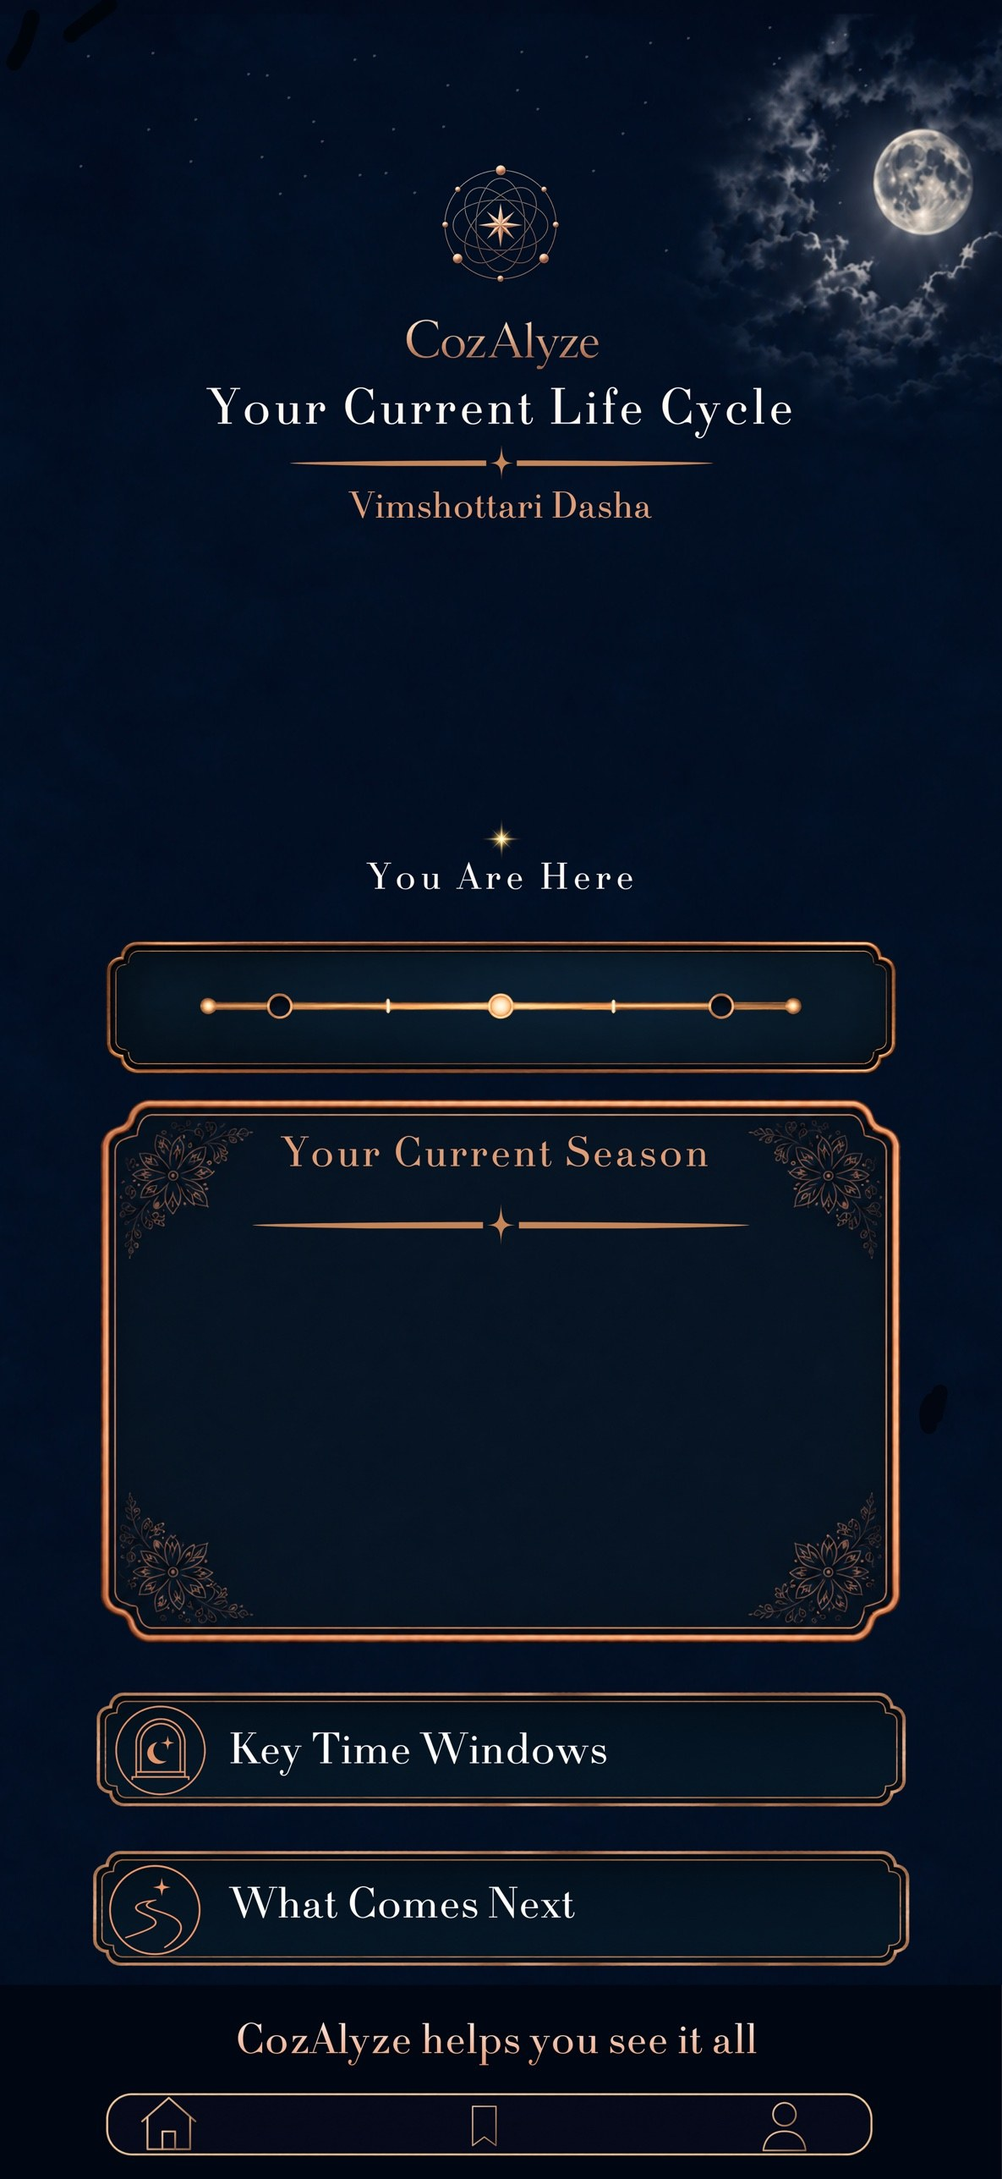
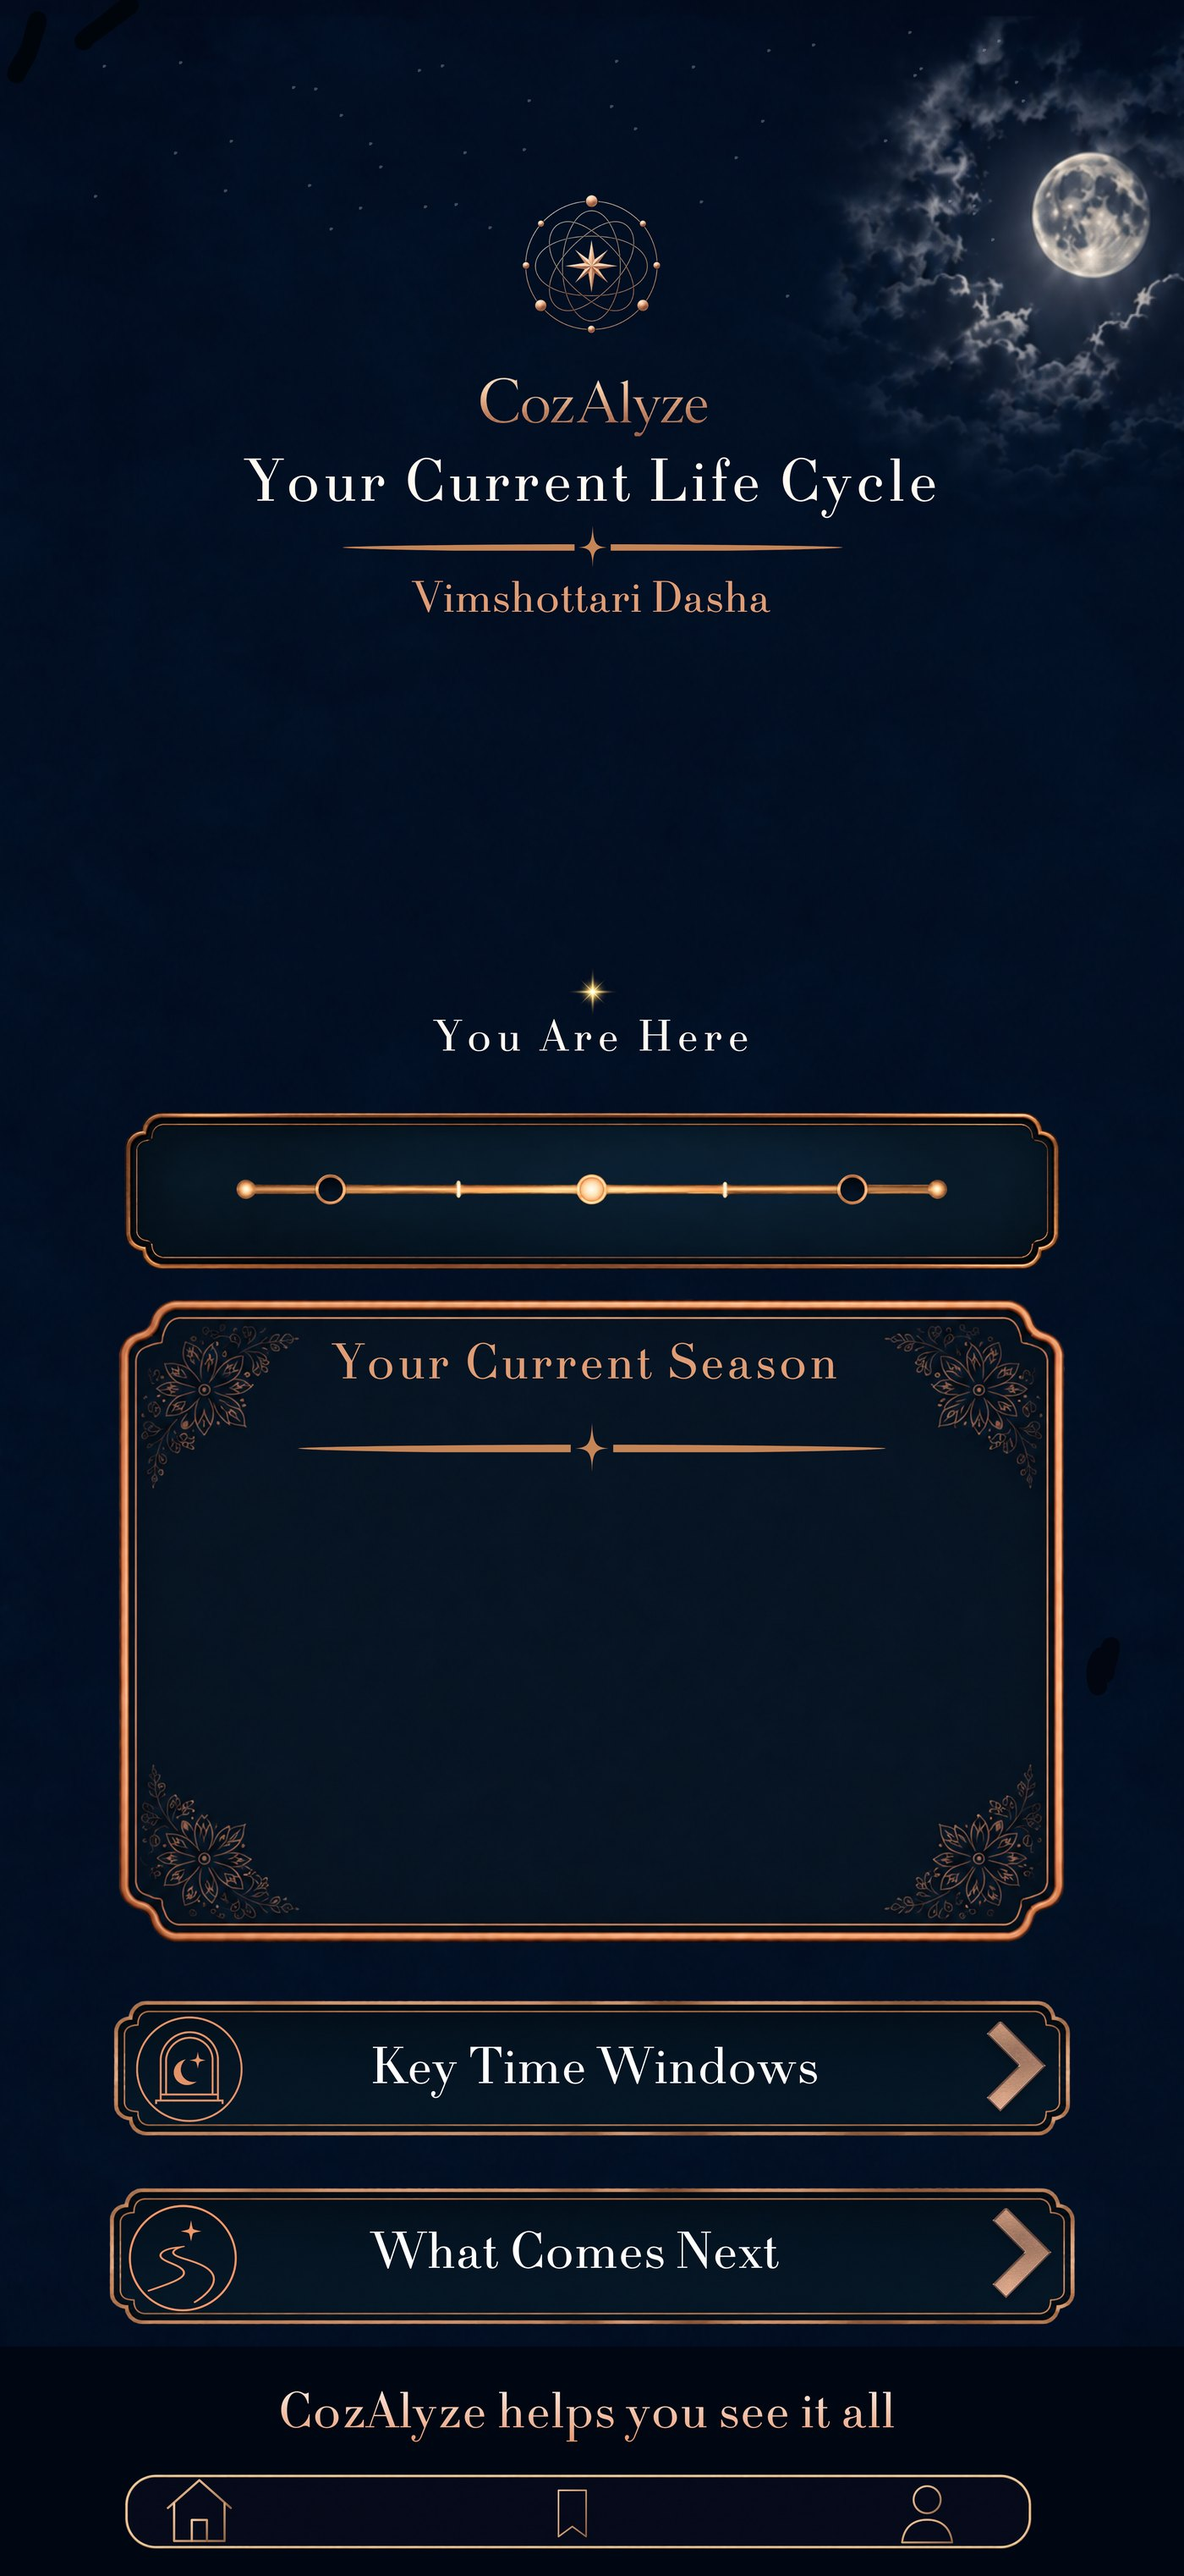
Add files via upload

diff --git a/current-life-cycle.html b/current-life-cycle.html
@@ -5,7 +5,7 @@
 <meta name="viewport" content="width=device-width, initial-scale=1, viewport-fit=cover">
 <title>Your Current Life Cycle · CozAlyze</title>
 <!--
-  COZALYZE · CURRENT LIFE CYCLE · LC2.2
+  COZALYZE · CURRENT LIFE CYCLE · LC2.3
   Reached from vedic-reading.html (the "Your Current Life Cycle" door).
 
   LC2.0 replaces the CSS-composed layout of LC1.0. The artwork is now a single
@@ -112,15 +112,23 @@ html, body {
   font-size: 7.3cqw; letter-spacing: .045em; color: #fff;
   text-transform: uppercase; white-space: nowrap;
 }
+.lc-more {
+  top: 71.3%;
+  font-family: var(--display-font);
+  font-size: 3.85cqw; letter-spacing: .035em;
+  color: var(--vedic-gold);
+}
+.lc-more .chev { margin-left: .42em; font-size: 1.1em; line-height: 0; }
+
 .lc-summary {
-  top: 63.0%; left: 14.5%; right: 14.5%;
+  top: 61.6%; left: 14%; right: 14%;
   font-family: var(--display-font);
   font-size: 4.05cqw; line-height: 1.48; color: var(--vedic-ivory);
 }
 
 /* The painted season panel is the door to the full reading. */
 .lc-door {
-  position: absolute; top: 50.2%; left: 5.5%; right: 5.5%; height: 25.3%;
+  position: absolute; top: 50.2%; left: 5.5%; right: 5.5%; height: 24.5%;
   display: block; border: 0; background: none; padding: 0;
   cursor: pointer; -webkit-tap-highlight-color: transparent;
   border-radius: 3.4cqw;
@@ -137,7 +145,7 @@ html, body {
 }
 .lc-btn:active { background: rgba(212,161,120,.07); }
 .lc-btn:focus-visible { outline: .3cqw solid var(--vedic-gold); outline-offset: .3cqw; }
-.lc-btn.ktw { top: 78.0%; }
+.lc-btn.ktw { top: 78.1%; }
 .lc-btn.wcn { top: 85.0%; }
 
 .lc-nav { position: absolute; bottom: 1.2%; left: 10%; right: 10%; height: 3.2%; display: flex; }
@@ -188,7 +196,7 @@ html, body {
       '<a href="#" data-foot="saved" aria-label="Saved"></a>' +
       '<a href="#" data-foot="account" aria-label="Account"></a>' +
     '</div>' +
-    '<div class="lc-stamp" aria-hidden="true">LC2.2</div>';
+    '<div class="lc-stamp" aria-hidden="true">LC2.3</div>';
 
   function failClosed(reason) {
     stage.innerHTML =
@@ -241,7 +249,7 @@ html, body {
       var parts = t.split(', ');
       return parts.slice(0, n).join(', ');
     }
-    return 'A period that may bring questions of ' + esc(lead(b, 3)) +
+    return 'A period that may bring questions of ' + esc(lead(b, 2)) +
            ' into sharper focus within a longer chapter of ' + esc(lead(a, 2)) + '.';
   }
 
@@ -255,6 +263,7 @@ html, body {
 
     '<div class="f lc-pair">' + esc(md.lord) + ' \u2013 ' + esc(ad.lord) + '</div>' +
     '<div class="f lc-summary">' + summary() + '</div>' +
+    '<div class="f lc-more">Read Your Full Season<span class="chev">\u203A</span></div>' +
     '<a class="lc-door" href="current-season.html" aria-label="Read your current season"></a>' +
     '<a class="lc-btn ktw" href="key-time-windows.html" aria-label="Key Time Windows"></a>' +
     '<a class="lc-btn wcn" href="what-comes-next.html" aria-label="What Comes Next"></a>' +
